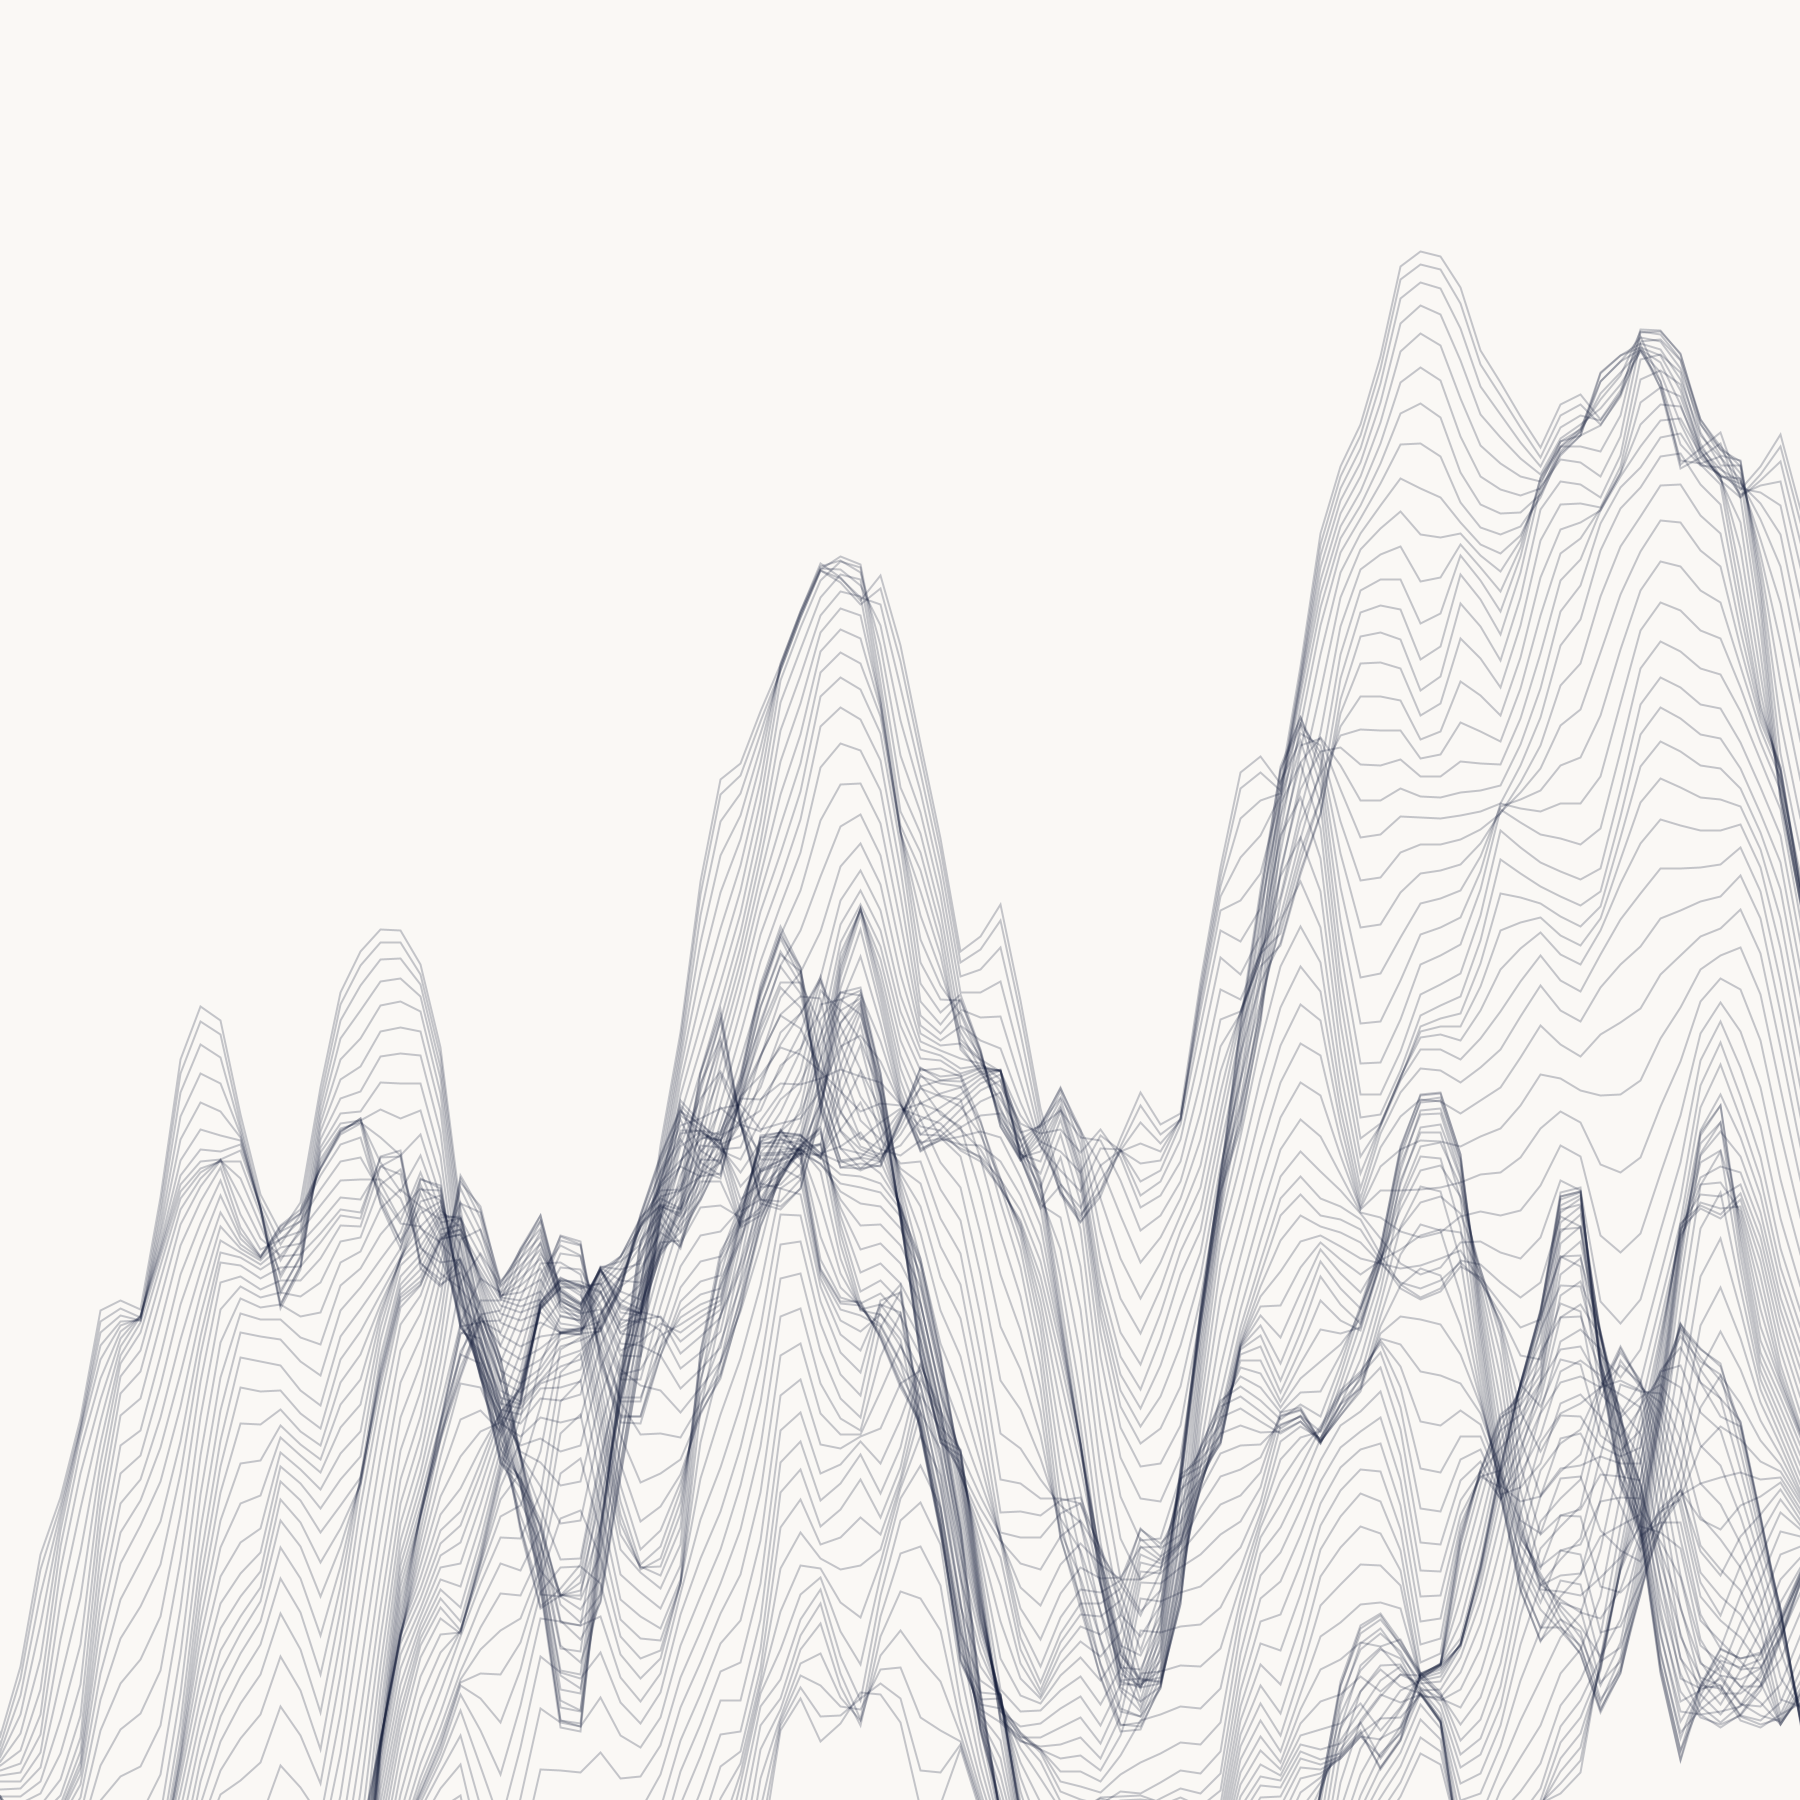
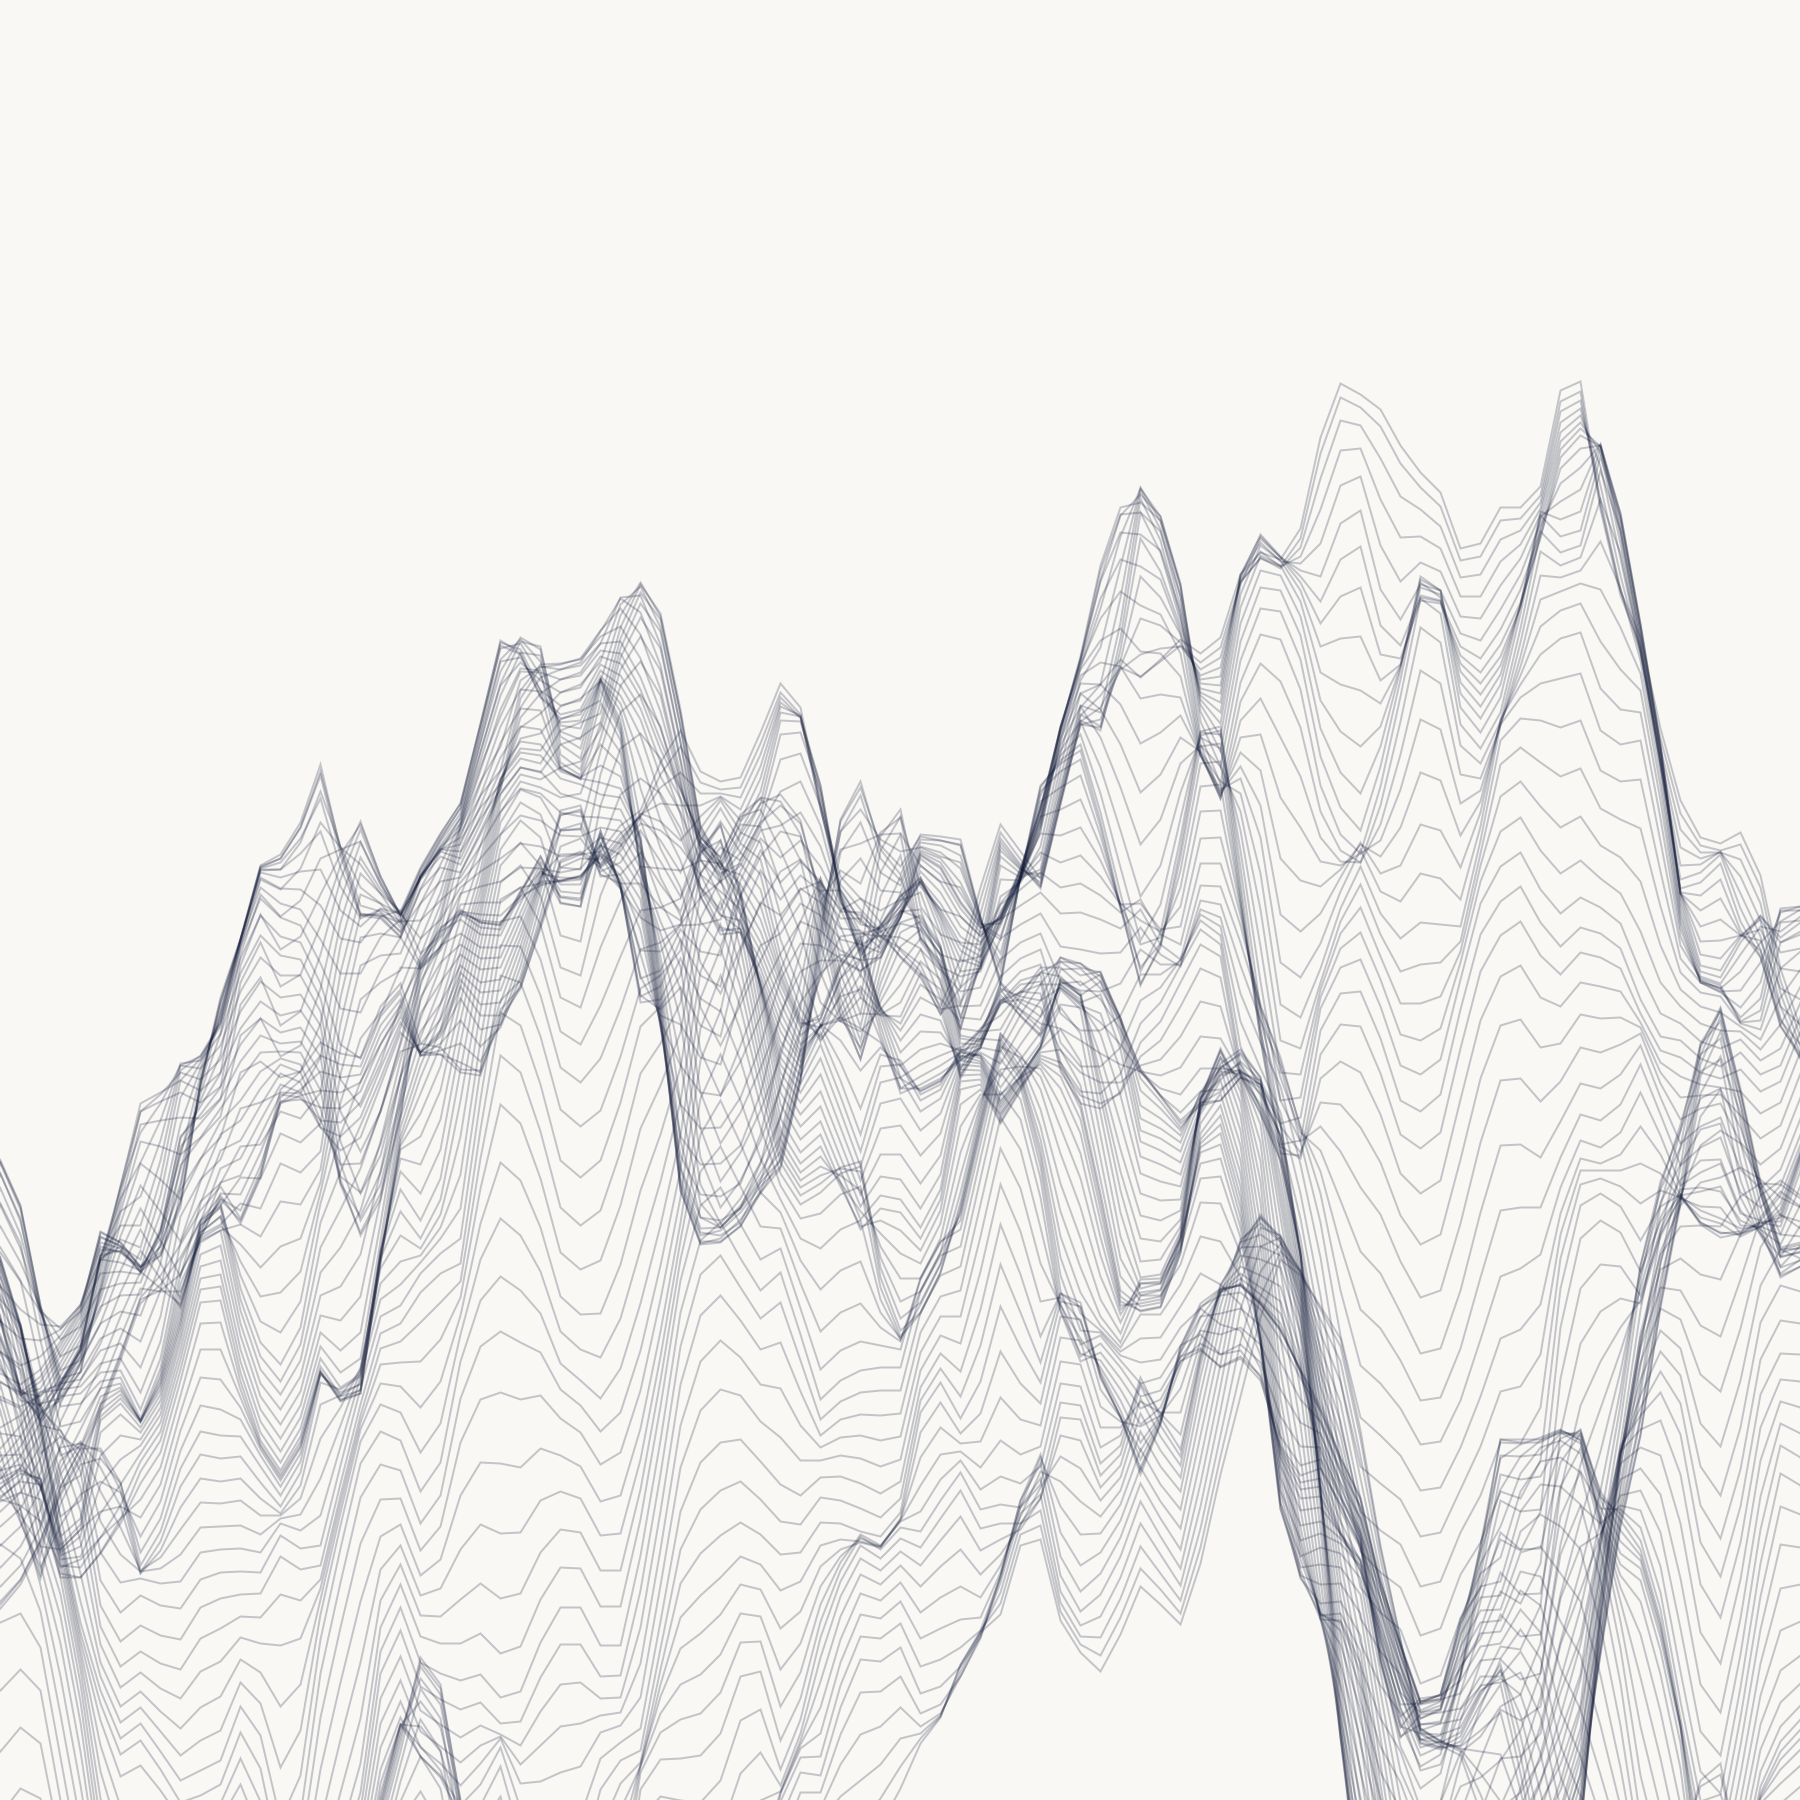
version 0.1.1

Changed region(s): [[0.0, 0.1556, 1.0, 1.0]]

diff --git a/index.html b/index.html
@@ -15,15 +15,14 @@
     body {
         background-color: #faf8f5; /* rgb(250, 248, 245) の16進数表記です */
 
-      /* 3. 画像の重ね合わせ設定（background単体プロパティにまとめず、分けて書くと安全です） */
+      /* 3. 画像の重ね合わせ設定 */
         background-image: url('./wave.png');
+        background-size: 100vw;
         background-repeat: no-repeat;
         background-position: 0 0;
-        background-size: cover;
-        background-attachment: fixed;
+ /*       background-size: cover; */
+ /*       background-attachment: fixed; */
 
-        width: 100vw;
-        height: 100vh;
         font-size: 2.4vw;
         font-family: selif, "Hiragino Kaku Gothic ProN", "Yu Gothic Medium", "Yu Gothic", sans-serif;
         font-weight: normal;